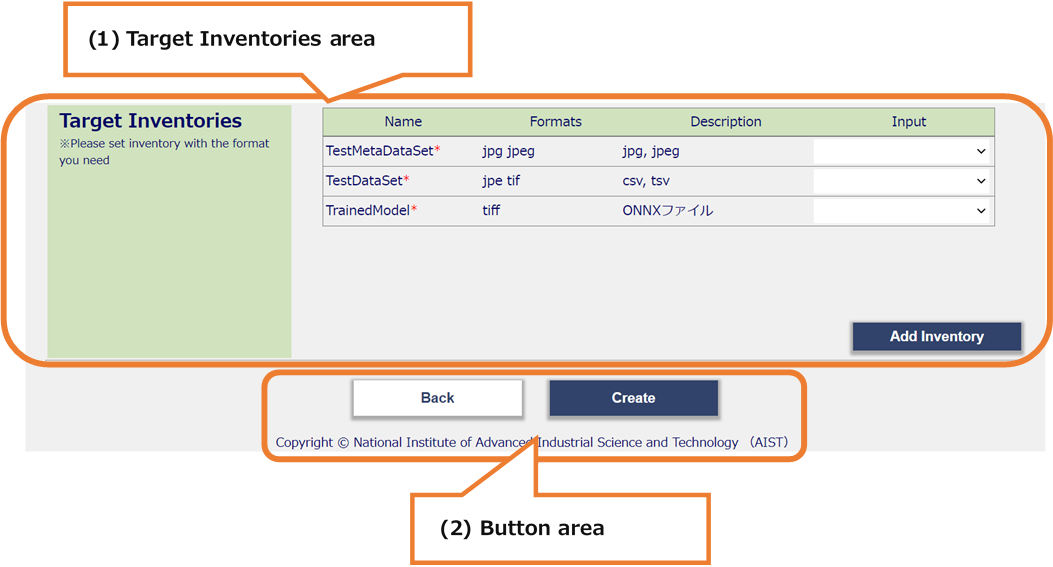
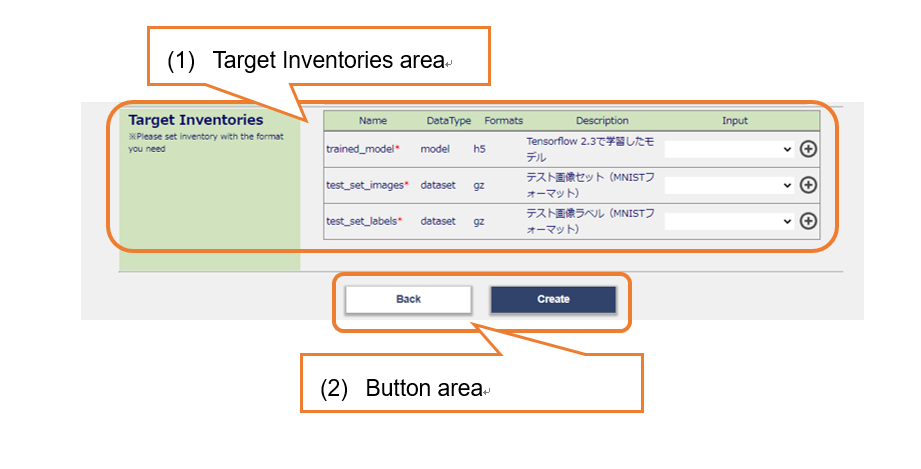
0.1.2 (sprint25)

Changed region(s): [[0.0, 0.0, 1.0, 1.0]]

diff --git a/docs/user-manual/06_TestDescriptionsEdit/01_TestDescriptionsEdit.html b/docs/user-manual/06_TestDescriptionsEdit/01_TestDescriptionsEdit.html
@@ -295,7 +295,7 @@
 <li><p>The registered information is displayed.</p></li>
 <li><p>Check the name, format, and detailed information, and select Inventory.</p></li>
 <li><p>If there are many display items, it is possible to scroll.</p></li>
-<li><p>If there is no Inventory that matches the format, it is possible to add an Inventory by pressing the Add Inventory button to display the Add Inventory modal.</p></li>
+<li><p>If there is no Inventory that matches the format, it is possible to add an Inventory by pressing the Add Inventory button(+) to display the Add Inventory modal.</p></li>
 </ul>
 </li>
 <li><p>(2) Button area</p>
@@ -341,7 +341,7 @@
 <li><p>Select the Target Inventory you want to register.</p></li>
 <li><p>Check the name, format, and detailed information, and select Inventory.</p></li>
 <li><p>If there are many display items, it is possible to scroll.</p></li>
-<li><p>If there is no Inventory that matches the format, it is possible to add an Inventory by pressing the Add Inventory button to display the Add Inventory modal.</p></li>
+<li><p>If there is no Inventory that matches the format, it is possible to add an Inventory by pressing the Add Inventory button(+) to display the Add Inventory modal.</p></li>
 </ul>
 </li>
 <li><p>(2) Button area</p>

diff --git a/docs/user-manual/07_TestDescriptionsCopy/01_TestDescriptionsCopy.html b/docs/user-manual/07_TestDescriptionsCopy/01_TestDescriptionsCopy.html
@@ -275,7 +275,7 @@
 <li><p>The registered information of the copy source has been entered.</p></li>
 <li><p>Check the name, format, detailed information, and select Inventory.</p></li>
 <li><p>If there are many display items, it is possible to scroll.</p></li>
-<li><p>If there is no Inventory that matches the format, it is possible to add an Inventory by pressing the Add Inventory button to display the Add Inventory modal.</p></li>
+<li><p>If there is no Inventory that matches the format, it is possible to add an Inventory by pressing the Add Inventory button(+) to display the Add Inventory modal.</p></li>
 </ul>
 </li>
 <li><p>(2) Button area</p>

diff --git a/docs/user-manual/05_TestDescriptionsCreate/01_TestDescriptionsCreate.html b/docs/user-manual/05_TestDescriptionsCreate/01_TestDescriptionsCreate.html
@@ -307,7 +307,7 @@
 <li><p>Select the Target Inventory you want to register.</p></li>
 <li><p>Check the name, format, and detailed information, and select Inventory.</p></li>
 <li><p>If there are many display items, it is possible to scroll.</p></li>
-<li><p>If there is no Inventory that matches the format, it is possible to add an Inventory by pressing the Add Inventory button to display the Add Inventory modal.</p></li>
+<li><p>If there is no Inventory that matches the format, it is possible to add an Inventory by pressing the Add Inventory button(+) to display the Add Inventory modal.</p></li>
 </ul>
 </li>
 <li><p>(2) Button area</p>
